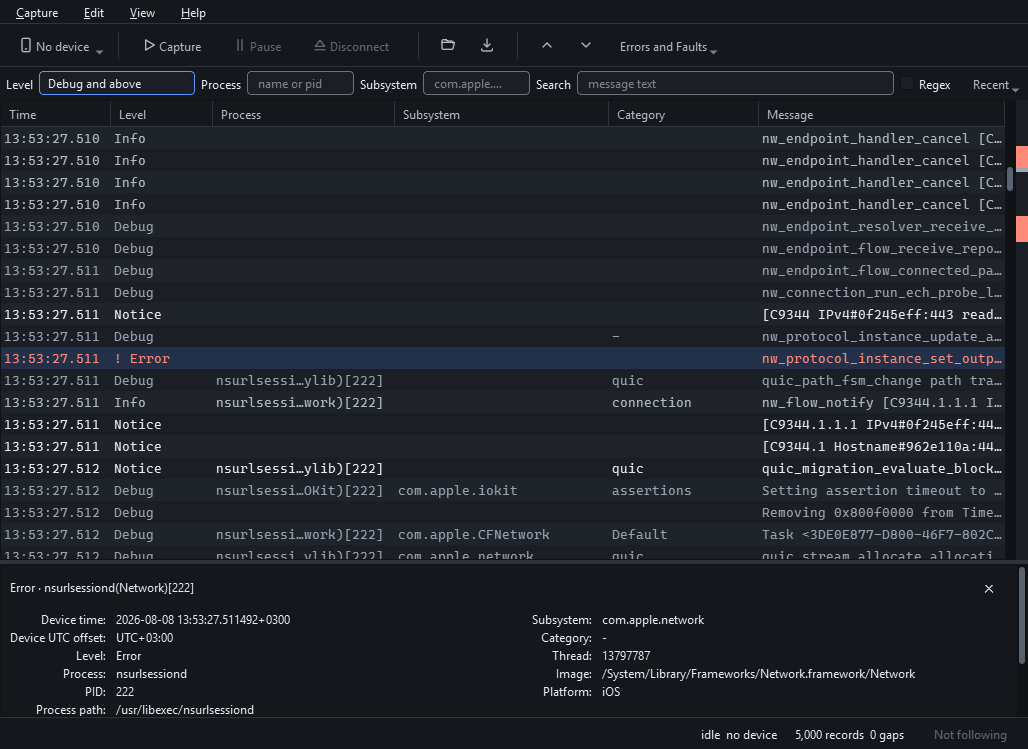
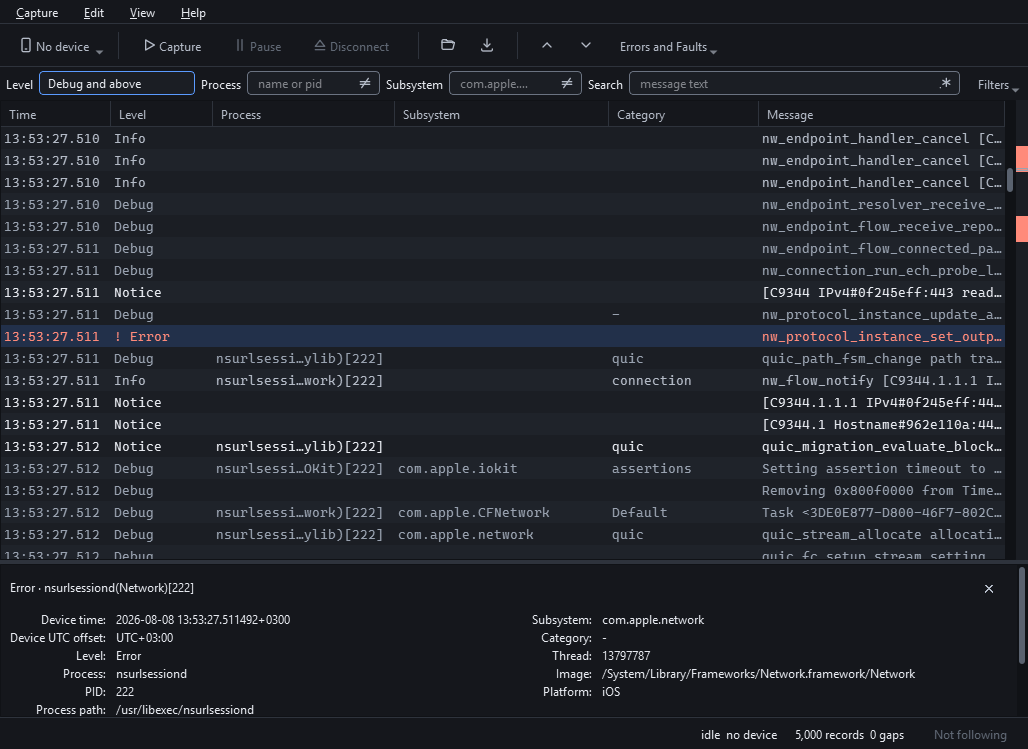
docs: prepare 0.2.0 (#60)
* docs: prepare 0.2.0

The changelog's `## [Unreleased]` becomes `## 0.2.0`, with a paragraph saying
what the release turned out to be: it was planned as the god node, the module
boundaries and the socket seams, and the redesign's nice-to-have tier went in on
top of that, which is what a user actually meets.

**A correction in `CONTRIBUTING.md` that mattered.** Its release section said
`release.yml` fires on `v*` and publishes with no approval step. All three of
those were made false by 0.1.2 and the sentence was not: the trigger is
`v[0-9]+.[0-9]+.[0-9]+`, the build job audits the captures inside its own sdist
and refuses if it finds none, and `publish` waits on a required reviewer in the
`pypi` environment. Verified against the workflow and the environment's own
protection rules rather than from memory.

**The README says what the comparison is against.** Console.app, Xcode's device
console and `pymobiledevice3 syslog live` all read `os_trace_relay` and see the
same records -- the difference there is the tool, not the data. The chart is
against the *text* path, which is what `idevicesyslog` and the predecessor this
project replaces were built on. Agreed a while ago and deferred; a release is
when the shop window has to be right.

`sdist-audit/` is now ignored. The release checklist and `release.yml` both
extract the built sdist there, and it holds a second copy of `tests/fixtures/`
-- a stray `git add -A` would commit device captures to a path nothing audits,
[…]

diff --git a/tests/test_gui_capture_controller.py b/tests/test_gui_capture_controller.py
@@ -243,18 +243,62 @@ class TestADeviceThatWillNotLetGo:
         controller.shutdown()
 
     def test_shutdown_waits_for_what_was_parked(
-        self, controller: CaptureController, stuck: StuckThread
+        self, controller: CaptureController, stuck: StuckThread, monkeypatch: pytest.MonkeyPatch
     ) -> None:
         """A `QThread` still running when Python drops its last reference
         aborts the process -- measured here once as exit `0xC0000409` with
-        nothing printed."""
+        nothing printed.
+
+        The wait is widened for this one. The fixture sets 20 ms because what
+        *it* is for is a wait that times out; what this is for is a wait that
+        succeeds, and 20 ms against a thread waking from a 5 ms sleep is a
+        margin the machine can eat. It did: this failed once on a macOS runner
+        and nowhere else, which read as a flake and was two faults at once --
+        a budget that was really a race, and `shutdown` treating the timeout as
+        a success. The second one is `test_shutdown_keeps_what_its_wait_did_not
+        _catch`.
+        """
         controller.stop()
         stuck.let_go()
+        monkeypatch.setattr("ostrace.gui.capture_controller.STOP_TIMEOUT_MS", 30_000)
 
         controller.shutdown()
 
         assert controller._parked == []
         assert not stuck.isRunning()
+
+    def test_shutdown_keeps_what_its_wait_did_not_catch(
+        self, controller: CaptureController, stuck: StuckThread, monkeypatch: pytest.MonkeyPatch
+    ) -> None:
+        """A wait that timed out is not a wait that succeeded.
+
+        `shutdown` used to clear the parked list unconditionally, which threw
+        away the last reference to a *running* thread and did the exact thing
+        `_park` exists to prevent -- `CaptureThread` has no parent, so that
+        reference is the only one, and Qt's destructor calls `qFatal` on a
+        running thread. It does not fail a test; it takes the process.
+
+        Caught by CI on macOS, once, where the fixture's 20 ms wait was long
+        enough on every other runner and not on that one. Forced here rather
+        than waited for: at zero the wait cannot succeed, so the assertion is
+        about the branch and not about the timing of the machine running it.
+        """
+        controller.stop()
+        assert controller._parked
+        monkeypatch.setattr("ostrace.gui.capture_controller.STOP_TIMEOUT_MS", 0)
+
+        controller.shutdown()
+
+        assert controller._parked, "a running thread was let go of"
+        assert stuck.isRunning()
+        pump = controller._parked[0][1]
+        assert pump is not None
+        assert pump._timer.isActive(), "the pump went while its thread was still producing"
+
+        stuck.let_go()
+        assert stuck.wait(30_000)
+        controller._reap()
+        assert controller._parked == []
 
     def test_a_parked_capture_that_ends_lets_go_by_itself(
         self, controller: CaptureController, stuck: StuckThread

diff --git a/src/ostrace/gui/capture_controller.py b/src/ostrace/gui/capture_controller.py
@@ -235,12 +235,24 @@ class CaptureController(QObject):
         drops its last reference aborts the process -- measured here as exit
         ``0xC0000409`` with nothing printed -- so the last thing this object
         does is give each parked thread one more bounded wait.
+
+        **The wait can fail, and then the thread stays parked.** This used to
+        clear the list unconditionally, which threw away the last reference to a
+        running thread and did the exact thing `_park` exists to prevent: a
+        wait that timed out was treated as a wait that succeeded. It is
+        `_reap` that knows the difference, so this waits and then asks it,
+        rather than keeping a second copy of the rule that disagrees with the
+        first.
+
+        Releasing the pumps unconditionally was the same mistake seen from the
+        other side. A pump let go while its thread is still producing leaves
+        the queue growing with nothing bounding it, which is the rule this file
+        exists to keep, stated backwards.
         """
         self.stop()
-        for thread, pump in self._parked:
+        for thread, _pump in self._parked:
             thread.wait(STOP_TIMEOUT_MS)
-            self._release(pump)
-        self._parked.clear()
+        self._reap()
 
     # ------------------------------------------------------------------
     # Parking

diff --git a/docs/README.md b/docs/README.md
@@ -24,7 +24,7 @@ does. Read [formats/](formats/) if you are writing something that consumes an
 | 2 | `analysis/` and `exporters/`, six-column agent bundle | **done** |
 | 3b | CLI: `export` | **done** |
 | 4 | PySide6 GUI | **done**, against [its contract](design/gui.md) |
-| 5 | Release: PyPI via Trusted Publishing | **done** — `v0.1.2`, [on PyPI](https://pypi.org/project/ostrace/) |
+| 5 | Release: PyPI via Trusted Publishing | **done** — `v0.2.0`, [on PyPI](https://pypi.org/project/ostrace/) |
 
 0.1.0 is missing from that row on purpose. It was published and withdrawn the
 next day, over the fixtures its `sdist` carried, and the number will not be
@@ -59,21 +59,25 @@ was not applying, every opened capture staying in memory, a release that never
 audited the artifact it published, and CI running a device test that passed
 without a device.
 
-The next version is 0.2.0, and it is a structural one rather than a feature
-one: the god node, the module boundaries, and the seams that make socket
-ownership provable in CI. Its plan is written down outside this repository,
-beside the design notes.
-
-All of it is on `main` and none of it is released. The window has been
-decomposed into five controllers, the source has grown the seam that lets a
-test watch the second socket, the storage facade decides on its own what a
-capture is, the README states which imports are supported and what the commands
-promise a script, and three ADRs — 0007 to 0009 — record the shapes and what was
-rejected. All of it has been run against a real device, which also produced the
-measurement behind the README's comparison chart: both lockdown services read
-over the same minute, where the legacy one returns the NOTICE tier and above and
-nothing below it. See [research/log-sources-comparison.md](research/log-sources-comparison.md)
+**0.2.0 was planned as a structural release and shipped as a feature one.** The
+structural half is all there: the window decomposed into five controllers, the
+source grown the seam that lets a test watch the second socket, the storage
+facade deciding on its own what a capture is, the README stating which imports
+are supported and what the commands promise a script, and three ADRs — 0007 to
+0009 — recording the shapes and what was rejected. All of it ran against a real
+device, which also produced the measurement behind the comparison chart: both
+lockdown services read over the same minute, where the legacy one returns the
+NOTICE tier and above and nothing below it. See
+[research/log-sources-comparison.md](research/log-sources-comparison.md)
 Finding 1b.
+
+What a user of 0.2.0 actually meets is the redesign's **nice-to-have tier**,
+which closed on top of that work in four packages: the filter bar (exclusion,
+named filters, a filter you can paste), the capture options the command line
+always had, the export dialog, and the View menu — marks, columns, and a strip
+that answers the keyboard. One item of the tier was not built and the reason is
+a measurement, in [research/gui-redesign/05-interaction.md](research/gui-redesign/05-interaction.md)
+§10.
 
 The documentation under `formats/` and `design/` describes contracts, which are
 specified before they are implemented so that the shape is a decision rather

diff --git a/CLAUDE.md b/CLAUDE.md
@@ -1,23 +1,29 @@
 # ostrace
 
-Cross-platform iOS log viewer, released: 0.1.2 is on PyPI. That covers the
+Cross-platform iOS log viewer, released: 0.2.0 is on PyPI. That covers the
 model, sources and storage (phases 0-1), `analysis/` plus all six exporters
 (phase 2), the command line — `devices`, `capture`, `doctor`, `export`
 (phase 3), the PySide6 viewer in `gui/` (phase 4), and the release machinery
 itself (phase 5).
 
-**`main` is ahead of `v0.1.2`**, and `CHANGELOG.md`'s `## [Unreleased]` section
-says by how much. The gap is worth stating whenever there is one, because a bug
-reproduced against the published package is not necessarily a bug here. The GUI
-redesign's must-have tier is finished and released, and so are the fixes that
-came out of the 0.2.0 analysis.
+**`main` and `v0.2.0` are the same tree.** When that stops being true, say by
+how much and add the sentence back: a bug reproduced against the published
+package is not necessarily a bug here, and `CHANGELOG.md`'s `## [Unreleased]`
+section is where the gap is written down.
 
-The next version is 0.2.0 and it is a structural one: the plan lives outside
-this repository, beside the design notes. **All eight of its packages have
-landed** — P (public presence and application identity), A (contract safety
-nets), B (the source seam), C (GUI mechanics), D (the capture, follow and theme
-controllers), E (the view layer), F (the storage facade) and G (the public
-surface and the paper trail). Nothing structural is outstanding.
+0.2.0 was planned as a structural release and shipped as a feature one. Its
+plan lives outside this repository, beside the design notes, and **all eight of
+its packages landed** — P (public presence and application identity), A
+(contract safety nets), B (the source seam), C (GUI mechanics), D (the capture,
+follow and theme controllers), E (the view layer), F (the storage facade) and G
+(the public surface and the paper trail). Nothing structural is outstanding.
+
+**The GUI redesign's tiers are both closed.** The must-have tier shipped in
+0.1.1 and 0.1.2; the nice-to-have tier went into 0.2.0 in four packages — the
+filter bar, the capture options, the export dialog and the View menu. One item
+of it was not built and the reason is a measurement, recorded in
+`docs/research/gui-redesign/05-interaction.md` §10. What is left is the Later
+tier, which is where a feature for 0.3.0 would come from.
 
 **All of it has now been on hardware**, on 2026-08-12: the eleven device tests,
 a capture and an export end to end, and the viewer driven by hand through a live

diff --git a/CHANGELOG.md b/CHANGELOG.md
@@ -10,7 +10,19 @@ Two things are treated as public API from the start and will be versioned as
 such: the `Record` model and the on-disk export formats documented in
 [docs/formats/](docs/formats/).
 
-## [Unreleased]
+## 0.2.0 - 2026-08-14
+
+A structural release that turned into a feature one. The plan was the god node,
+the module boundaries and the seams that make socket ownership provable in CI —
+eight packages, none of which a user would notice. The GUI redesign's
+nice-to-have tier went in on top of it, and that tier is what this release
+mostly reads as.
+
+`MainWindow` went from 2,155 lines to 1,817 and five controllers came out of it;
+ADRs 0007 to 0009 record their shapes and what was rejected. The measurement the
+whole project rests on — `os_trace_relay` against `syslog_relay` — was taken
+properly for the first time, over one minute from one process, and the README
+carries the chart.
 
 ### Added
 
@@ -242,6 +254,22 @@ such: the `Record` model and the on-disk export formats documented in
   loads when a service is opened rather than when a module is read.
 
 ### Fixed
+
+- **Closing the window could take the process down with it.** When a capture
+  refuses to let go, its thread is parked rather than dropped — Qt's destructor
+  calls `qFatal` on a running `QThread`, so dropping it would not report a stuck
+  capture, it would kill the viewer with no message. `shutdown` then gave each
+  parked thread one more bounded wait and cleared the list **whether or not the
+  wait succeeded**, which is that exact drop, one layer down. It now keeps what
+  did not finish.
+
+  The same line released each parked pump unconditionally, which is the rule
+  this area exists to keep stated backwards: a pump let go while its thread is
+  still producing leaves the queue growing with nothing bounding it.
+
+  Found by CI on macOS, once, as what looked like a flake — and it was two
+  faults at once, a test budget that was really a race and a branch that
+  treated a timed-out wait as a successful one.
 
 - **Two records in `ios26-mixed.jsonl.gz` said how long the capture device had
   stood still.** `timeSinceStart,486891.342897` beside `totalDistance,0.000000`

diff --git a/README.md b/README.md
@@ -44,6 +44,13 @@ The ratio itself is not the claim: it moved between 9.1× and 20.1× across thos
 runs, with how much DEBUG the device happened to be emitting. What did not move
 is which tiers arrive.
 
+**This compares two services, not two applications.** Console.app, Xcode's
+device console and `pymobiledevice3 syslog live` all read `os_trace_relay`, the
+same one `ostrace` does, and they see the same records — the difference there is
+the tool, not the data. The comparison above is against the *text* path, which
+is what `idevicesyslog` and the single-file predecessor this project replaces
+were built on.
+
 Separately, 96.8% of records in the reference capture carry a `subsystem` and
 `category` that the text-based pipeline discards — measured between 80% and 97%
 across the captures in `tests/fixtures/` and since.
@@ -248,8 +255,17 @@ says so. Anything not listed here is internal, `ostrace.gui` included.
     <img alt="The same window on macOS, drawn in the system font, with no menu bar inside it because macOS puts one in the screen menu instead" src="https://raw.githubusercontent.com/BerkayCaglar/ostrace/main/docs/images/viewer-macos-light.png">
   </picture>
 
-  *The same capture and the same code on macOS. The window carries no menu bar
-  of its own: there it belongs to the screen.*
+  *The same capture on macOS. The window carries no menu bar of its own: there
+  it belongs to the screen.*
+
+  This pair is from 0.1.2 and the Windows pair above is from 0.2.0, so the
+  filter bar differs between them: 0.2.0 moved the `Regex` checkbox inside the
+  Search field and put a `≠` in Process and Subsystem. A macOS screenshot has
+  to be rendered on a Mac under the `cocoa` plugin — the offscreen plugin
+  resolves the interface font to Qt's generic `Sans Serif`, which is right
+  about layout and wrong about the one thing anybody looks at a macOS
+  screenshot for — so this one waits for a Mac rather than being regenerated
+  in CI.
 - **Only iOS is supported.** The device layer is written around lockdown and
   `os_trace_relay`.
 

diff --git a/CONTRIBUTING.md b/CONTRIBUTING.md
@@ -299,8 +299,17 @@ anybody looks at a macOS screenshot for.
 not the ones in the working tree. 0.1.0 was withdrawn over exactly that
 distinction: the working tree was clean and the artifact was not.
 
-Tagging is what publishes. `release.yml` fires on `v*` and goes to PyPI with no
-approval step, so a tag pushed by accident is a release.
+**Tagging is what starts a release, and 0.1.2 put three things between it and
+PyPI.** The trigger is `v[0-9]+.[0-9]+.[0-9]+` rather than `v*`, so a probe tag
+does not fire it. The build job extracts its own `sdist` and audits the captures
+inside it with the built wheel's decoder, refusing outright if it finds no
+captures — an audit that passed by checking nothing is how 0.1.0 happened. And
+`publish` runs in the `pypi` environment, which has a required reviewer, so a
+matching tag builds and audits and then *waits*.
+
+This paragraph used to say the workflow fired on `v*` and published with no
+approval step. All three of those were made false by 0.1.2 and the sentence was
+not. Check what a tag fires before making one, rather than trusting this.
 
 ## Reporting a bug
 
